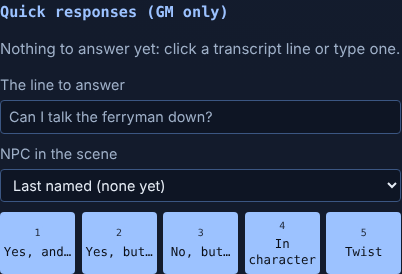
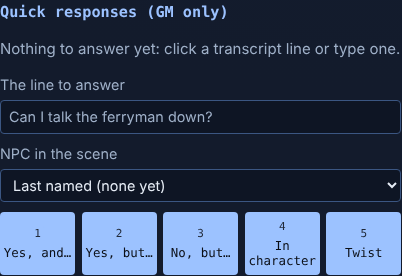
fix(QF.37): review round 1 — 12 px floor on names, 11 px keys, 1920×1080 checked
Claude-Session: https://claude.ai/code/session_015YxiCeXsyrgZ1Hjk6cnvHL

diff --git a/e2e/QF.37.spec.ts b/e2e/QF.37.spec.ts
@@ -28,7 +28,9 @@ test.afterEach(async () => {
 
 const names = ['Yes, and…', 'Yes, but…', 'No, but…', 'In character', 'Twist'];
 
-test('every quick-response button shows its full name at 1366×768', async ({ browser }) => {
+test('every quick-response button shows its full name, readable, at 1366×768 and 1920×1080', async ({
+  browser,
+}) => {
   test.setTimeout(90_000);
   server = await startBuiltServer({ GM_KEY, THE_SYSTEM_E2E_FAKE_AI: '1' }, { dataDir });
   const gm = await browser.newPage({ viewport: { width: 1366, height: 768 } });
@@ -49,61 +51,76 @@ test('every quick-response button shows its full name at 1366×768', async ({ br
   const quick = gm.getByTestId('quick-responses');
   const buttons = quick.getByRole('group', { name: 'Quick responses' }).getByRole('button');
   await expect(buttons).toHaveCount(5);
-  for (const [i, name] of names.entries()) {
-    const button = buttons.nth(i);
-    await expect(button).toBeVisible();
-    // Runs in the page; the e2e tsconfig has no DOM lib, hence the local types.
-    const shown = await button.evaluate((raw) => {
-      interface TextNode {
-        nodeType: number;
-        textContent: string | null;
-      }
-      interface Range {
-        setStart(n: TextNode, at: number): void;
-        setEnd(n: TextNode, at: number): void;
-        getClientRects(): ArrayLike<{ top: number }>;
-      }
-      const el = raw as unknown as {
-        innerText: string;
-        scrollWidth: number;
-        clientWidth: number;
-        scrollHeight: number;
-        clientHeight: number;
-        childNodes: ArrayLike<TextNode>;
-      };
-      const page = globalThis as unknown as {
-        getComputedStyle(e: unknown): { textOverflow: string };
-        document: { createRange(): Range };
-      };
-      // Words split across lines (e.g. "charact|er"): a word whose range
-      // spans more than one line box. Node type 3 is a text node.
-      const splitWords: string[] = [];
-      for (const n of Array.from(el.childNodes).filter((x) => x.nodeType === 3)) {
-        for (const m of (n.textContent ?? '').matchAll(/\S+/g)) {
-          const range = page.document.createRange();
-          range.setStart(n, m.index);
-          range.setEnd(n, m.index + m[0].length);
-          const tops = Array.from(range.getClientRects()).map((r) => Math.round(r.top));
-          if (new Set(tops).size > 1) splitWords.push(m[0]);
+  const check = async (where: string) => {
+    for (const [i, name] of names.entries()) {
+      const button = buttons.nth(i);
+      await expect(button).toBeVisible();
+      // Runs in the page; the e2e tsconfig has no DOM lib, hence the local types.
+      const shown = await button.evaluate((raw) => {
+        interface TextNode {
+          nodeType: number;
+          textContent: string | null;
         }
-      }
-      return {
-        text: el.innerText.replace(/\s+/g, ' ').trim(),
-        clipped: el.scrollWidth > el.clientWidth || el.scrollHeight > el.clientHeight,
-        ellipsis: page.getComputedStyle(raw).textOverflow === 'ellipsis',
-        splitWords,
-      };
-    });
-    expect(shown.text, `button ${i + 1}`).toBe(`${i + 1} ${name}`);
-    expect(shown.clipped, `button ${i + 1} is clipped`).toBe(false);
-    expect(shown.ellipsis, `button ${i + 1} truncates`).toBe(false);
-    expect(shown.splitWords, `button ${i + 1} splits a word`).toEqual([]);
-  }
-  // Still one row of five, every button the same height.
-  const boxes = await Promise.all(names.map((_, i) => buttons.nth(i).boundingBox()));
-  expect(new Set(boxes.map((b) => Math.round(b?.y ?? -1))).size).toBe(1);
-  expect(new Set(boxes.map((b) => Math.round(b?.height ?? -1))).size).toBe(1);
-
+        interface Range {
+          setStart(n: TextNode, at: number): void;
+          setEnd(n: TextNode, at: number): void;
+          getClientRects(): ArrayLike<{ top: number }>;
+        }
+        const el = raw as unknown as {
+          innerText: string;
+          scrollWidth: number;
+          clientWidth: number;
+          scrollHeight: number;
+          clientHeight: number;
+          childNodes: ArrayLike<TextNode>;
+        };
+        const page = globalThis as unknown as {
+          getComputedStyle(e: unknown): { textOverflow: string; fontSize: string };
+          document: { createRange(): Range };
+        };
+        // Words split across lines (e.g. "charact|er"): a word whose range
+        // spans more than one line box. Node type 3 is a text node.
+        const splitWords: string[] = [];
+        for (const n of Array.from(el.childNodes).filter((x) => x.nodeType === 3)) {
+          for (const m of (n.textContent ?? '').matchAll(/\S+/g)) {
+            const range = page.document.createRange();
+            range.setStart(n, m.index);
+            range.setEnd(n, m.index + m[0].length);
+            const tops = Array.from(range.getClientRects()).map((r) => Math.round(r.top));
+            if (new Set(tops).size > 1) splitWords.push(m[0]);
+          }
+        }
+        return {
+          text: el.innerText.replace(/\s+/g, ' ').trim(),
+          clipped: el.scrollWidth > el.clientWidth || el.scrollHeight > el.clientHeight,
+          ellipsis: page.getComputedStyle(raw).textOverflow === 'ellipsis',
+          splitWords,
+          fontPx: parseFloat(page.getComputedStyle(raw).fontSize),
+          keyPx: parseFloat(
+            page.getComputedStyle(
+              (raw as unknown as { querySelector(s: string): unknown }).querySelector('kbd'),
+            ).fontSize,
+          ),
+        };
+      });
+      expect(shown.text, `${where} button ${i + 1}`).toBe(`${i + 1} ${name}`);
+      expect(shown.clipped, `${where} button ${i + 1} is clipped`).toBe(false);
+      expect(shown.ellipsis, `${where} button ${i + 1} truncates`).toBe(false);
+      expect(shown.splitWords, `${where} button ${i + 1} splits a word`).toEqual([]);
+      // Readable at a glance (QF.37 review): names at least 12 px, keys 11 px.
+      expect(shown.fontPx, `${where} button ${i + 1} name size`).toBeGreaterThanOrEqual(12);
+      expect(shown.keyPx, `${where} button ${i + 1} key size`).toBeGreaterThanOrEqual(11);
+    }
+    // Still one row of five, every button the same height.
+    const boxes = await Promise.all(names.map((_, i) => buttons.nth(i).boundingBox()));
+    expect(new Set(boxes.map((b) => Math.round(b?.y ?? -1))).size).toBe(1);
+    expect(new Set(boxes.map((b) => Math.round(b?.height ?? -1))).size).toBe(1);
+  };
+  await check('1366×768');
   await quick.scrollIntoViewIfNeeded();
   await quick.screenshot({ path: path.join(shots, 'quick-responses-1366x768.png') });
+  await gm.setViewportSize({ width: 1920, height: 1080 });
+  await check('1920×1080');
+  await quick.scrollIntoViewIfNeeded();
+  await quick.screenshot({ path: path.join(shots, 'quick-responses-1920x1080.png') });
 });

diff --git a/apps/web/src/styles.css b/apps/web/src/styles.css
@@ -3116,19 +3116,18 @@ ol.change-log li.undone .change-text {
   grid-template-columns: repeat(5, minmax(0, 1fr));
   gap: 0.4rem;
   margin: 0.5rem 0;
+  container-type: inline-size;
 }
 /* QF.37: the key sits on its own line and the name below it wraps between
    words (never mid-word, never an ellipsis), so the GM can tell "Yes, and…"
    from "Yes, but…" at a glance. The font follows the row's width (container
    units) so the longest default word ("character") fits a narrow panel; the
-   grid stretches every button in the row to the tallest. */
-.quick-row {
-  container-type: inline-size;
-}
+   grid stretches every button in the row to the tallest. Never below 12 px
+   (keys 11 px), so a narrow panel cannot shrink them past a glance. */
 .quick-row button {
   min-width: 0;
   padding: 0.4rem 0.15rem;
-  font-size: min(0.9rem, 3.1cqi);
+  font-size: max(12px, min(0.9rem, 3.1cqi));
   white-space: normal;
   overflow-wrap: normal;
   line-height: 1.25;
@@ -3145,7 +3144,7 @@ ol.change-log li.undone .change-text {
   padding: 0 0.25em;
   border: 1px solid var(--accent, currentColor);
   border-radius: 3px;
-  font-size: 0.8em;
+  font-size: max(11px, 0.8em);
   opacity: 0.85;
 }
 .quick-target q {
